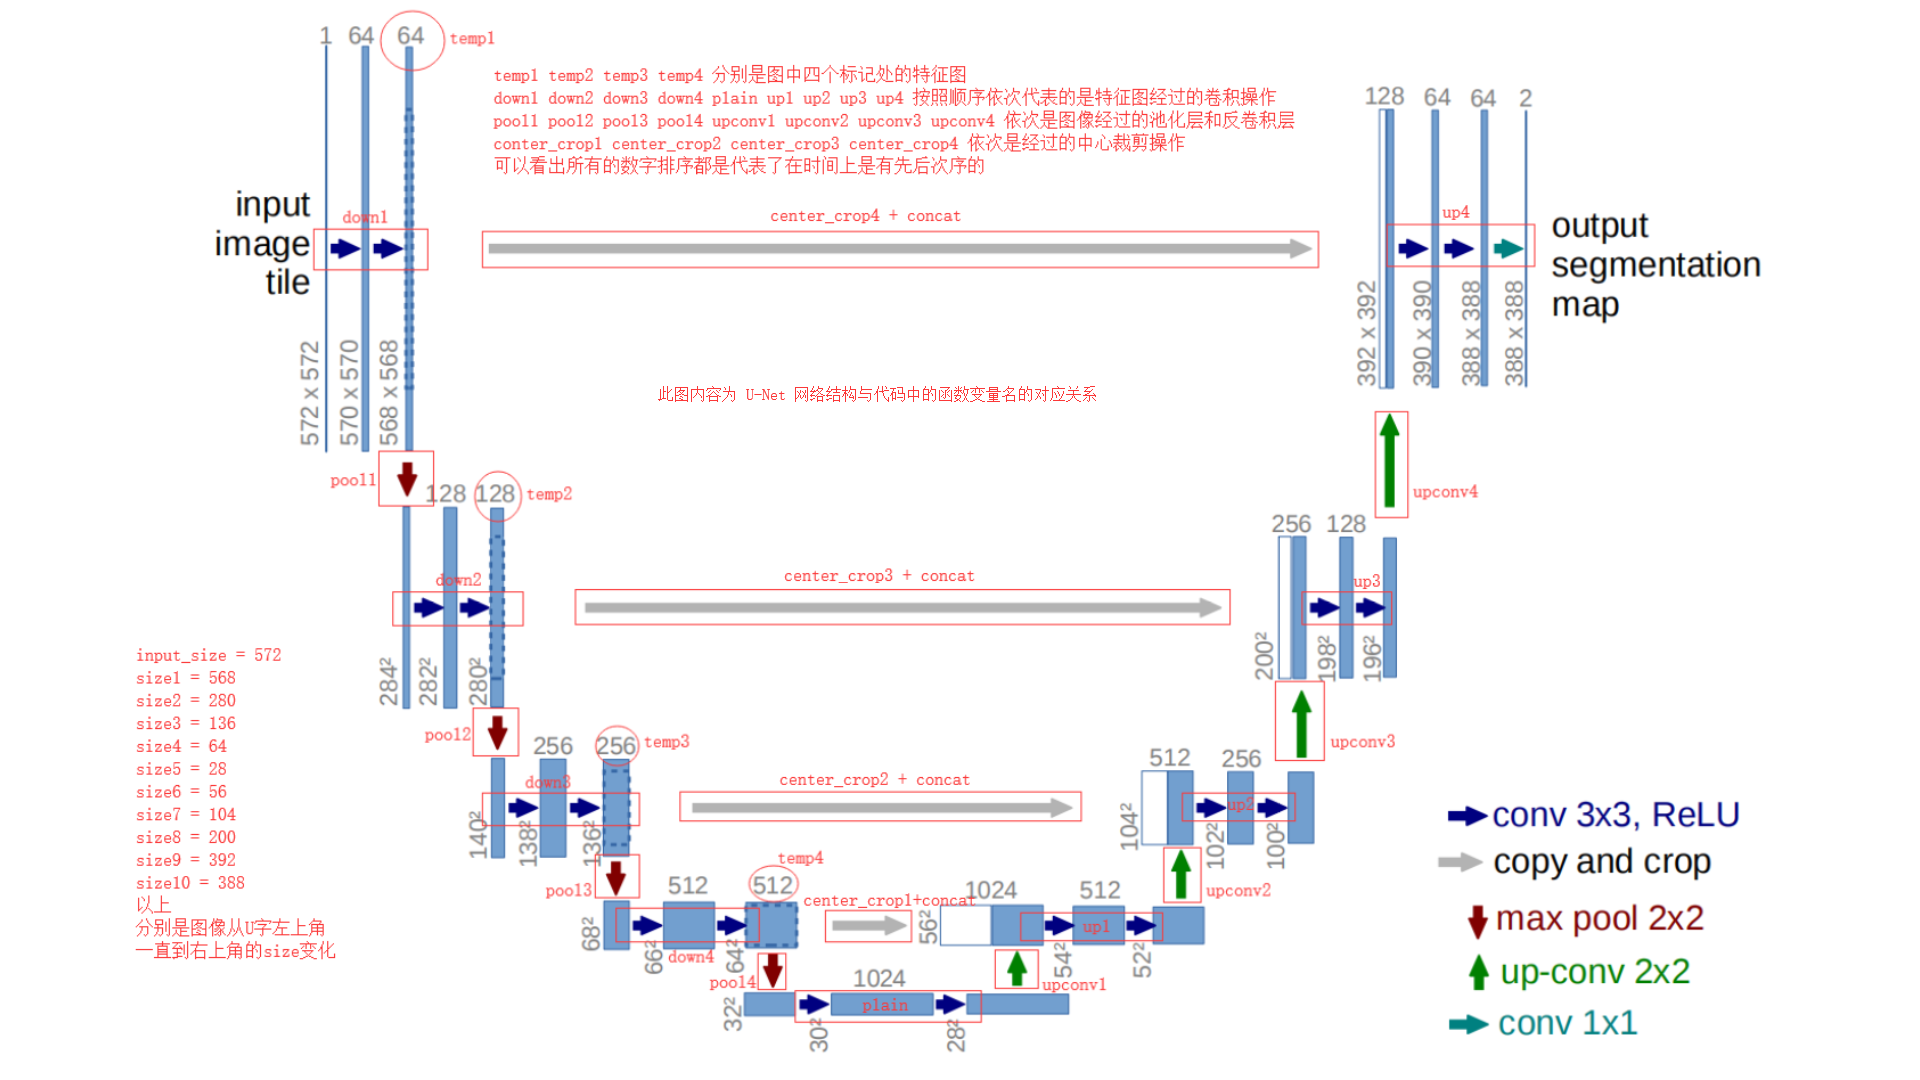
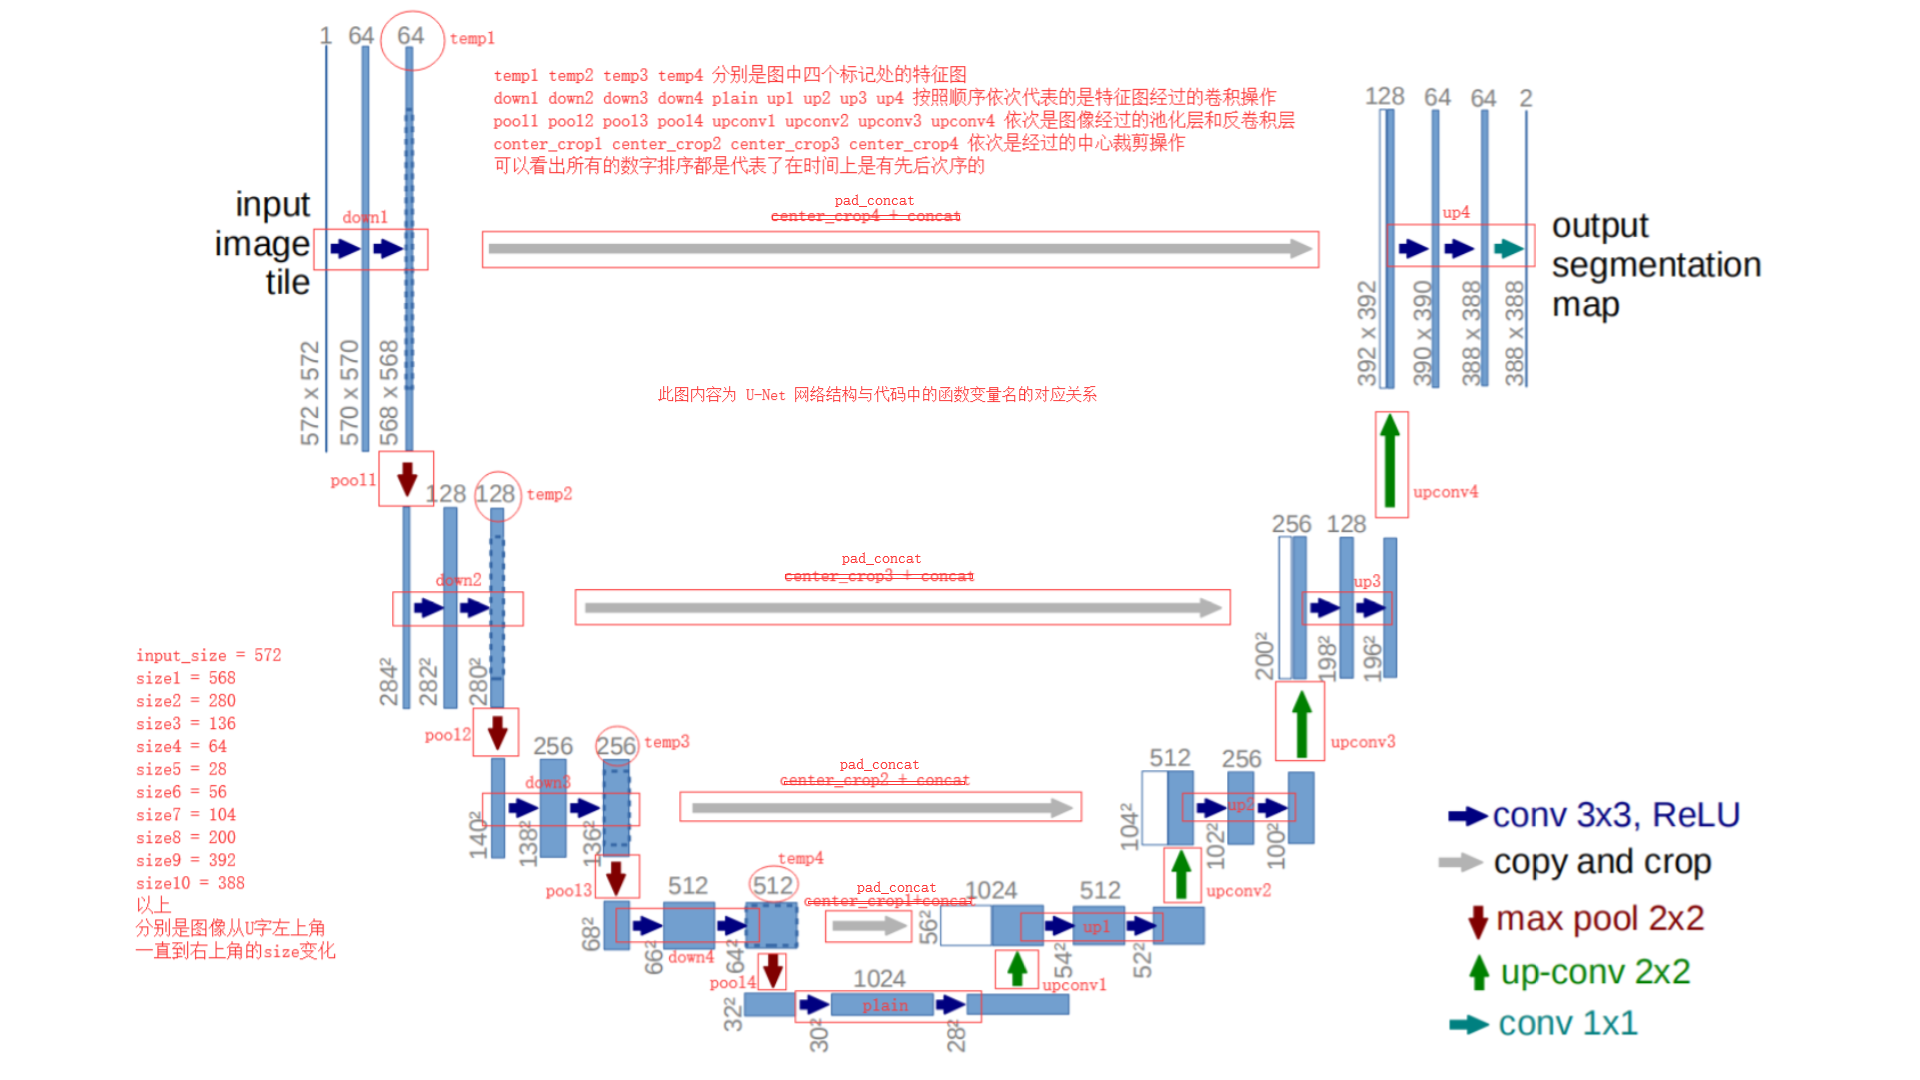
unet

diff --git a/U-Net.py b/U-Net.py
@@ -3,23 +3,33 @@ import torchvision
 from torch import nn
 
 
+# input_size = 572
+# size1 = input_size - 2 - 2
+# size2 = size1 // 2 - 2 - 2
+# size3 = size2 // 2 - 2 - 2
+# size4 = size3 // 2 - 2 - 2
+# size5 = size4 // 2 - 2 - 2
+# size6 = size5 * 2
+# size7 = (size6 - 2 - 2) * 2
+# size8 = (size7 - 2 - 2) * 2
+# size9 = (size8 - 2 - 2) * 2
+# size10 = size9 - 2 - 2
+
+
+
 class UNet(nn.Module):
+    """
+    U-Net 结构实现 照着论文搭积木 论文地址：https://arxiv.org/pdf/1505.04597.pdf
+
+    一些函数和变量的名称参考图片 ‘./U-Net.png’
+
+    部分内容参考这个博客：https://cuijiahua.com/blog/2019/12/dl-15.html
+    """
     def __init__(self):
         super(UNet, self).__init__()
         in_channels = 1
         out_channels = 2
         basic_channels = 64
-        input_size = 572
-        size1 = input_size - 2 - 2
-        size2 = size1 // 2 - 2 - 2
-        size3 = size2 // 2 - 2 - 2
-        size4 = size3 // 2 - 2 - 2
-        size5 = size4 // 2 - 2 - 2
-        size6 = size5 * 2
-        size7 = (size6 - 2 - 2) * 2
-        size8 = (size7 - 2 - 2) * 2
-        size9 = (size8 - 2 - 2) * 2
-        size10 = size9 - 2 - 2
         self.down1 = nn.Sequential(
             nn.Conv2d(in_channels, basic_channels, 3),
             nn.ReLU(),
@@ -101,6 +111,14 @@ class UNet(nn.Module):
         return img
 
     def pad_concat(self, temp, img):
+        """
+        论文中虽然写的是crop，但是用pad会更加方便，而且保留更多信息。
+
+        ‘官方的写法，用的pad，所以我这里也用pad了。
+        其实这个不用太纠结，unet的思想主要在于这种U型的经典结构。
+        至于pad或者crop其实，可以根据需求进行调整的。’   --引用自Jack Cui（上文中博客的博主）
+
+        """
         deltaY = temp.shape[2] - img.shape[2]
         deltaX = temp.shape[3] - img.shape[3]
         img = nn.functional.pad(img, [deltaX // 2, deltaX - deltaX // 2,
@@ -108,8 +126,8 @@ class UNet(nn.Module):
         img = torch.cat((temp, img), dim=1)
         return img
 
-u = UNet()
-a = torch.rand((1, 1, 572, 572))
-a = u(a)
-print(a.shape)
-
+if __name__ == '__main__':
+    u = UNet()
+    a = torch.rand((1, 1, 600, 600))
+    a = u(a)
+    print(a.shape)
